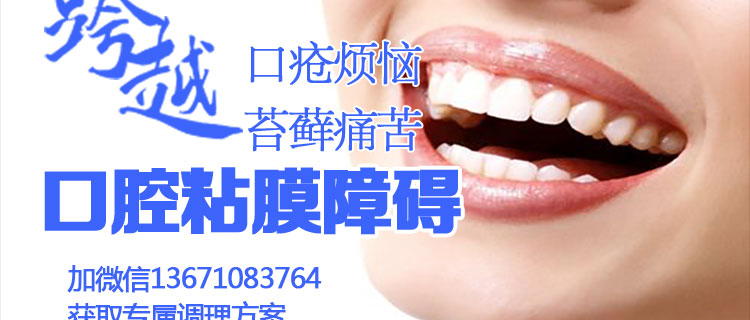
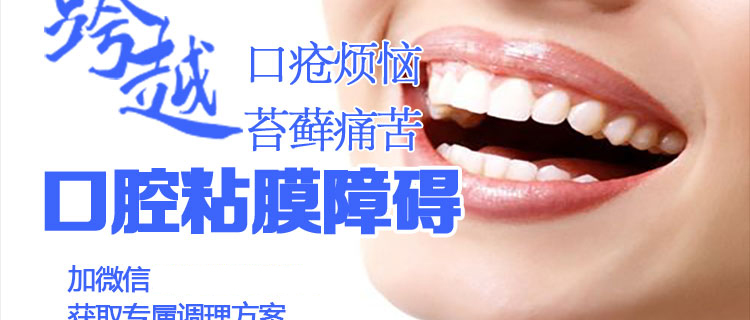
随机手机号

Changed region(s): [[0.184, 0.8125, 0.4293, 0.9062]]

diff --git a/0206/index.html b/0206/index.html
@@ -6,28 +6,75 @@
     <meta name="viewport" content="width=750,user-scalable=no">
     <script src="lazysizes.min.js"></script>
     <style>
+        div {
+            position: relative;
+        }
+
         img {
             display: block;
             width: 750px;
             height: 320px;
         }
+
+        .wx1 span {
+            position: absolute;
+            bottom: 24px;
+            left: 150px;
+            font-size: 26px;
+            font-weight: 600;
+            color: #3c64fb;
+        }
+        .wx4 span {
+            position: absolute;
+            top: 200px;
+            left: 568px;
+            font-size: 24px;
+            font-weight: 600;
+            color: #fff;
+        }
+        .wx2 span {
+            position: absolute;
+            top: 114px;
+            left: 367px;
+            font-size: 29px;
+            font-weight: 600;
+            color: #fff;
+        }
+
+        .wx3 span {
+            position: absolute;
+            top: 208px;
+            left: 323px;
+            font-size: 37px;
+            font-weight: 600;
+            color: #fff;
+        }
     </style>
 </head>
 <body>
 <img data-src="images/imgmei_01.jpg" class=" lazyload">
-<img data-src="images/imgmei_02.jpg" class=" lazyload">
+<div class="wx1"><img data-src="images/imgmei_02.jpg" class=" lazyload"><span></span></div>
 <img data-src="images/imgmei_03.jpg" class=" lazyload">
 <img data-src="images/imgmei_04.jpg" class=" lazyload">
-<img data-src="images/imgmei_05.jpg" class=" lazyload">
+<div class="wx4"><img data-src="images/imgmei_05.jpg" class=" lazyload"><span></span></div>
 <img data-src="images/imgmei_06.jpg" class=" lazyload">
 <img data-src="images/imgmei_07.jpg" class=" lazyload">
 <img data-src="images/imgmei_08.jpg" class=" lazyload">
 <img data-src="images/imgmei_09.jpg" class=" lazyload">
 <img data-src="images/imgmei_10.jpg" class=" lazyload">
-<img data-src="images/imgmei_11.jpg" class=" lazyload">
+<div class="wx2"><img data-src="images/imgmei_11.jpg" class=" lazyload"><span></span></div>
 <img data-src="images/imgmei_12.jpg" class=" lazyload">
 <img data-src="images/imgmei_13.jpg" class=" lazyload">
 <img data-src="images/imgmei_14.jpg" class=" lazyload">
-<img data-src="images/imgmei_15.jpg" class=" lazyload">
+<div class="wx3"><img data-src="images/imgmei_15.jpg" class=" lazyload"><span></span></div>
 </body>
 </html>
+<script>
+    var phoneNum = ['18888888888', '16666666666'];
+    var randomNumber = Math.round(Math.random());
+    var phoneNumEle = document.getElementsByTagName("span");
+    phoneNumEle[0].innerHTML = phoneNum[randomNumber];
+    phoneNumEle[1].innerHTML = phoneNum[randomNumber];
+    phoneNumEle[2].innerHTML = phoneNum[randomNumber];
+    phoneNumEle[3].innerHTML = phoneNum[randomNumber];
+</script>
